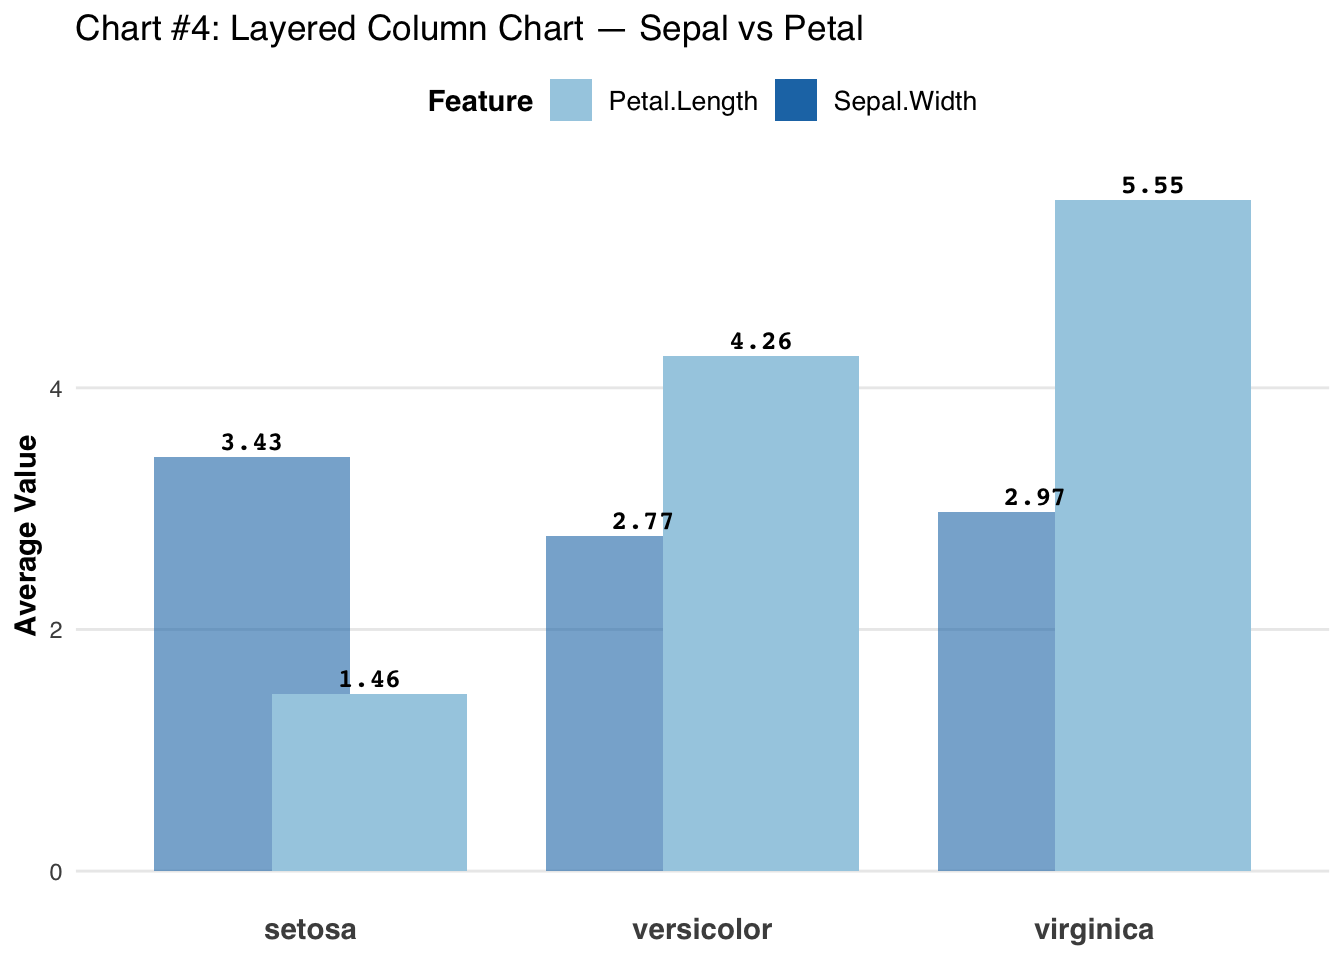
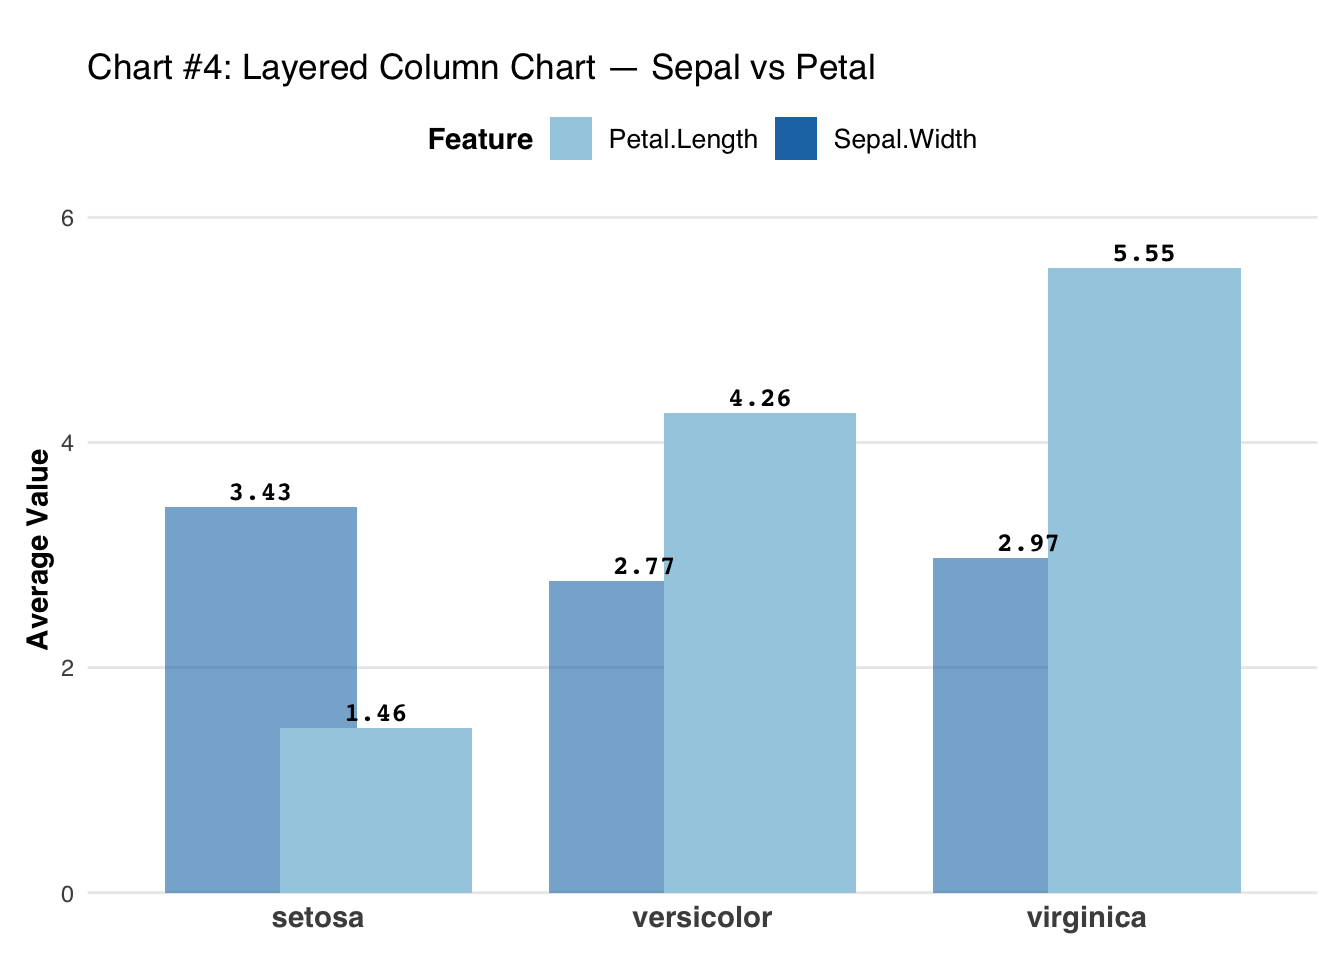
assignment 3 hackathon

diff --git a/docs/hackathon.html b/docs/hackathon.html
@@ -268,19 +268,19 @@ pre > code.sourceCode > span > a:first-child::before { text-decoration: underlin
 <span id="cb2-3"><a href="#cb2-3" aria-hidden="true" tabindex="-1"></a></span>
 <span id="cb2-4"><a href="#cb2-4" aria-hidden="true" tabindex="-1"></a><span class="fu">ggplot</span>(d, <span class="fu">aes</span>(<span class="at">x =</span> Species, <span class="at">y =</span> Value, <span class="at">fill =</span> Feature)) <span class="sc">+</span></span>
 <span id="cb2-5"><a href="#cb2-5" aria-hidden="true" tabindex="-1"></a>  <span class="fu">geom_col</span>(<span class="at">width =</span> <span class="fl">0.6</span>) <span class="sc">+</span></span>
-<span id="cb2-6"><a href="#cb2-6" aria-hidden="true" tabindex="-1"></a>  <span class="fu">geom_text</span>(<span class="fu">aes</span>(<span class="at">label =</span> <span class="fu">round</span>(Value, <span class="dv">2</span>)), <span class="at">vjust =</span> <span class="sc">-</span><span class="fl">1.2</span>, <span class="at">size =</span> <span class="fl">3.5</span>, <span class="at">family =</span> <span class="st">"mono"</span>, <span class="at">fontface =</span> <span class="st">"bold"</span>, <span class="at">color =</span> <span class="st">"black"</span>) <span class="sc">+</span></span>
-<span id="cb2-7"><a href="#cb2-7" aria-hidden="true" tabindex="-1"></a>  <span class="fu">facet_grid</span>(Feature <span class="sc">~</span> .) <span class="sc">+</span></span>
+<span id="cb2-6"><a href="#cb2-6" aria-hidden="true" tabindex="-1"></a>  <span class="fu">geom_text</span>(<span class="fu">aes</span>(<span class="at">label =</span> <span class="fu">round</span>(Value, <span class="dv">2</span>)), <span class="at">hjust =</span> <span class="sc">-</span><span class="fl">0.05</span>, <span class="at">size =</span> <span class="fl">2.8</span>, <span class="at">family =</span> <span class="st">"mono"</span>, <span class="at">fontface =</span> <span class="st">"bold"</span>, <span class="at">color =</span> <span class="st">"black"</span>) <span class="sc">+</span></span>
+<span id="cb2-7"><a href="#cb2-7" aria-hidden="true" tabindex="-1"></a>  <span class="fu">facet_grid</span>(Feature <span class="sc">~</span> ., <span class="at">scales =</span> <span class="st">"free"</span>) <span class="sc">+</span></span>
 <span id="cb2-8"><a href="#cb2-8" aria-hidden="true" tabindex="-1"></a>  <span class="fu">scale_fill_manual</span>(<span class="at">values =</span> <span class="fu">c</span>(<span class="at">Sepal.Length =</span> <span class="st">"#1f77b4"</span>, <span class="at">Sepal.Width =</span> <span class="st">"#4fa9dc"</span>, <span class="at">Petal.Length =</span> <span class="st">"#a6cee3"</span>, <span class="at">Petal.Width =</span> <span class="st">"#c6dbef"</span>)) <span class="sc">+</span></span>
 <span id="cb2-9"><a href="#cb2-9" aria-hidden="true" tabindex="-1"></a>  <span class="fu">labs</span>(<span class="at">title =</span> <span class="st">"Chart #2: Matrix Table with Embedded Bar Charts — Iris Feature Averages"</span>, <span class="at">x =</span> <span class="st">"Species"</span>, <span class="at">y =</span> <span class="st">"Average Value"</span>, <span class="at">fill =</span> <span class="st">"Feature"</span>) <span class="sc">+</span></span>
 <span id="cb2-10"><a href="#cb2-10" aria-hidden="true" tabindex="-1"></a>  <span class="fu">coord_cartesian</span>(<span class="at">clip =</span> <span class="st">"off"</span>) <span class="sc">+</span></span>
 <span id="cb2-11"><a href="#cb2-11" aria-hidden="true" tabindex="-1"></a>  <span class="fu">theme_minimal</span>(<span class="at">base_family =</span> <span class="st">"sans"</span>) <span class="sc">+</span></span>
-<span id="cb2-12"><a href="#cb2-12" aria-hidden="true" tabindex="-1"></a>  <span class="fu">theme</span>(<span class="at">strip.text =</span> <span class="fu">element_text</span>(<span class="at">face =</span> <span class="st">"bold"</span>, <span class="at">size =</span> <span class="dv">11</span>),</span>
-<span id="cb2-13"><a href="#cb2-13" aria-hidden="true" tabindex="-1"></a>        <span class="at">axis.text.x =</span> <span class="fu">element_text</span>(<span class="at">face =</span> <span class="st">"bold"</span>, <span class="at">size =</span> <span class="dv">10</span>),</span>
+<span id="cb2-12"><a href="#cb2-12" aria-hidden="true" tabindex="-1"></a>  <span class="fu">theme</span>(<span class="at">strip.text =</span> <span class="fu">element_text</span>(<span class="at">face =</span> <span class="st">"bold"</span>, <span class="at">size =</span> <span class="dv">5</span>),</span>
+<span id="cb2-13"><a href="#cb2-13" aria-hidden="true" tabindex="-1"></a>        <span class="at">axis.text.x =</span> <span class="fu">element_text</span>(<span class="at">face =</span> <span class="st">"bold"</span>, <span class="at">size =</span> <span class="dv">5</span>),</span>
 <span id="cb2-14"><a href="#cb2-14" aria-hidden="true" tabindex="-1"></a>        <span class="at">axis.title.x =</span> <span class="fu">element_text</span>(<span class="at">face =</span> <span class="st">"bold"</span>),</span>
 <span id="cb2-15"><a href="#cb2-15" aria-hidden="true" tabindex="-1"></a>        <span class="at">axis.title.y =</span> <span class="fu">element_text</span>(<span class="at">face =</span> <span class="st">"bold"</span>),</span>
 <span id="cb2-16"><a href="#cb2-16" aria-hidden="true" tabindex="-1"></a>        <span class="at">panel.grid.major =</span> <span class="fu">element_line</span>(<span class="at">color =</span> <span class="st">"gray85"</span>),</span>
 <span id="cb2-17"><a href="#cb2-17" aria-hidden="true" tabindex="-1"></a>        <span class="at">panel.spacing.y =</span> <span class="fu">unit</span>(<span class="fl">1.2</span>, <span class="st">"lines"</span>),</span>
-<span id="cb2-18"><a href="#cb2-18" aria-hidden="true" tabindex="-1"></a>        <span class="at">plot.margin =</span> <span class="fu">margin</span>(<span class="dv">10</span>, <span class="dv">10</span>, <span class="dv">30</span>, <span class="dv">10</span>),</span>
+<span id="cb2-18"><a href="#cb2-18" aria-hidden="true" tabindex="-1"></a>        <span class="at">plot.margin =</span> <span class="fu">margin</span>(<span class="dv">10</span>, <span class="dv">40</span>, <span class="dv">10</span>, <span class="dv">10</span>),</span>
 <span id="cb2-19"><a href="#cb2-19" aria-hidden="true" tabindex="-1"></a>        <span class="at">legend.position =</span> <span class="st">"top"</span>,</span>
 <span id="cb2-20"><a href="#cb2-20" aria-hidden="true" tabindex="-1"></a>        <span class="at">legend.title =</span> <span class="fu">element_text</span>(<span class="at">face =</span> <span class="st">"bold"</span>),</span>
 <span id="cb2-21"><a href="#cb2-21" aria-hidden="true" tabindex="-1"></a>        <span class="at">legend.text =</span> <span class="fu">element_text</span>(<span class="at">size =</span> <span class="dv">10</span>))</span></code></pre></div><button title="Copy to Clipboard" class="code-copy-button"><i class="bi"></i></button></div>
@@ -304,13 +304,14 @@ pre > code.sourceCode > span > a:first-child::before { text-decoration: underlin
 <span id="cb3-9"><a href="#cb3-9" aria-hidden="true" tabindex="-1"></a>            <span class="at">hjust =</span> <span class="sc">-</span><span class="fl">0.2</span>, <span class="at">size =</span> <span class="fl">3.5</span>, <span class="at">family =</span> <span class="st">"mono"</span>, <span class="at">fontface =</span> <span class="st">"bold"</span>, <span class="at">color =</span> <span class="st">"black"</span>) <span class="sc">+</span></span>
 <span id="cb3-10"><a href="#cb3-10" aria-hidden="true" tabindex="-1"></a>  <span class="fu">scale_fill_manual</span>(<span class="at">values =</span> <span class="fu">c</span>(<span class="at">Sepal.Width =</span> <span class="st">"#a6cee3"</span>, <span class="at">Petal.Length =</span> <span class="st">"#1f77b4"</span>)) <span class="sc">+</span></span>
 <span id="cb3-11"><a href="#cb3-11" aria-hidden="true" tabindex="-1"></a>  <span class="fu">labs</span>(<span class="at">title =</span> <span class="st">"Chart #3: Horizontal Grouped Bar Chart"</span>, <span class="at">x =</span> <span class="st">"Average Value"</span>, <span class="at">y =</span> <span class="cn">NULL</span>) <span class="sc">+</span></span>
-<span id="cb3-12"><a href="#cb3-12" aria-hidden="true" tabindex="-1"></a>  <span class="fu">theme_minimal</span>(<span class="at">base_family =</span> <span class="st">"sans"</span>) <span class="sc">+</span></span>
-<span id="cb3-13"><a href="#cb3-13" aria-hidden="true" tabindex="-1"></a>  <span class="fu">theme</span>(<span class="at">axis.text.y =</span> <span class="fu">element_text</span>(<span class="at">face =</span> <span class="st">"bold"</span>, <span class="at">size =</span> <span class="dv">11</span>),</span>
-<span id="cb3-14"><a href="#cb3-14" aria-hidden="true" tabindex="-1"></a>        <span class="at">axis.title.x =</span> <span class="fu">element_text</span>(<span class="at">face =</span> <span class="st">"bold"</span>),</span>
-<span id="cb3-15"><a href="#cb3-15" aria-hidden="true" tabindex="-1"></a>        <span class="at">legend.title =</span> <span class="fu">element_blank</span>(),</span>
-<span id="cb3-16"><a href="#cb3-16" aria-hidden="true" tabindex="-1"></a>        <span class="at">legend.position =</span> <span class="st">"top"</span>,</span>
-<span id="cb3-17"><a href="#cb3-17" aria-hidden="true" tabindex="-1"></a>        <span class="at">plot.margin =</span> <span class="fu">margin</span>(<span class="dv">10</span>, <span class="dv">30</span>, <span class="dv">10</span>, <span class="dv">10</span>),</span>
-<span id="cb3-18"><a href="#cb3-18" aria-hidden="true" tabindex="-1"></a>        <span class="at">panel.grid.major.y =</span> <span class="fu">element_blank</span>())</span></code></pre></div><button title="Copy to Clipboard" class="code-copy-button"><i class="bi"></i></button></div>
+<span id="cb3-12"><a href="#cb3-12" aria-hidden="true" tabindex="-1"></a>  <span class="fu">coord_cartesian</span>(<span class="at">clip =</span> <span class="st">"off"</span>) <span class="sc">+</span></span>
+<span id="cb3-13"><a href="#cb3-13" aria-hidden="true" tabindex="-1"></a>  <span class="fu">theme_minimal</span>(<span class="at">base_family =</span> <span class="st">"sans"</span>) <span class="sc">+</span></span>
+<span id="cb3-14"><a href="#cb3-14" aria-hidden="true" tabindex="-1"></a>  <span class="fu">theme</span>(<span class="at">axis.text.y =</span> <span class="fu">element_text</span>(<span class="at">face =</span> <span class="st">"bold"</span>, <span class="at">size =</span> <span class="dv">11</span>),</span>
+<span id="cb3-15"><a href="#cb3-15" aria-hidden="true" tabindex="-1"></a>        <span class="at">axis.title.x =</span> <span class="fu">element_text</span>(<span class="at">face =</span> <span class="st">"bold"</span>),</span>
+<span id="cb3-16"><a href="#cb3-16" aria-hidden="true" tabindex="-1"></a>        <span class="at">legend.title =</span> <span class="fu">element_blank</span>(),</span>
+<span id="cb3-17"><a href="#cb3-17" aria-hidden="true" tabindex="-1"></a>        <span class="at">legend.position =</span> <span class="st">"top"</span>,</span>
+<span id="cb3-18"><a href="#cb3-18" aria-hidden="true" tabindex="-1"></a>        <span class="at">plot.margin =</span> <span class="fu">margin</span>(<span class="dv">10</span>, <span class="dv">30</span>, <span class="dv">10</span>, <span class="dv">10</span>),</span>
+<span id="cb3-19"><a href="#cb3-19" aria-hidden="true" tabindex="-1"></a>        <span class="at">panel.grid.major.y =</span> <span class="fu">element_blank</span>())</span></code></pre></div><button title="Copy to Clipboard" class="code-copy-button"><i class="bi"></i></button></div>
 <div class="cell-output-display">
 <div>
 <figure class="figure">
@@ -334,15 +335,18 @@ pre > code.sourceCode > span > a:first-child::before { text-decoration: underlin
 <span id="cb4-12"><a href="#cb4-12" aria-hidden="true" tabindex="-1"></a>            <span class="at">position =</span> <span class="fu">position_nudge</span>(<span class="at">x =</span> <span class="fu">ifelse</span>(d<span class="sc">$</span>Layer <span class="sc">==</span> <span class="st">"Sepal.Width"</span>, <span class="sc">-</span><span class="fl">0.15</span>, <span class="fl">0.15</span>)),</span>
 <span id="cb4-13"><a href="#cb4-13" aria-hidden="true" tabindex="-1"></a>            <span class="at">vjust =</span> <span class="sc">-</span><span class="fl">0.5</span>, <span class="at">size =</span> <span class="fl">3.5</span>, <span class="at">family =</span> <span class="st">"mono"</span>, <span class="at">fontface =</span> <span class="st">"bold"</span>, <span class="at">color =</span> <span class="st">"black"</span>) <span class="sc">+</span></span>
 <span id="cb4-14"><a href="#cb4-14" aria-hidden="true" tabindex="-1"></a>  <span class="fu">scale_fill_manual</span>(<span class="at">values =</span> <span class="fu">c</span>(<span class="at">Sepal.Width =</span> <span class="st">"#1f77b4"</span>, <span class="at">Petal.Length =</span> <span class="st">"#a6cee3"</span>)) <span class="sc">+</span></span>
-<span id="cb4-15"><a href="#cb4-15" aria-hidden="true" tabindex="-1"></a>  <span class="fu">labs</span>(<span class="at">title =</span> <span class="st">"Chart #4: Layered Column Chart — Sepal vs Petal"</span>, <span class="at">x =</span> <span class="cn">NULL</span>, <span class="at">y =</span> <span class="st">"Average Value"</span>, <span class="at">fill =</span> <span class="st">"Feature"</span>) <span class="sc">+</span></span>
-<span id="cb4-16"><a href="#cb4-16" aria-hidden="true" tabindex="-1"></a>  <span class="fu">theme_minimal</span>(<span class="at">base_family =</span> <span class="st">"sans"</span>) <span class="sc">+</span></span>
-<span id="cb4-17"><a href="#cb4-17" aria-hidden="true" tabindex="-1"></a>  <span class="fu">theme</span>(<span class="at">axis.text.x =</span> <span class="fu">element_text</span>(<span class="at">face =</span> <span class="st">"bold"</span>, <span class="at">size =</span> <span class="dv">11</span>),</span>
-<span id="cb4-18"><a href="#cb4-18" aria-hidden="true" tabindex="-1"></a>        <span class="at">axis.title.y =</span> <span class="fu">element_text</span>(<span class="at">face =</span> <span class="st">"bold"</span>),</span>
-<span id="cb4-19"><a href="#cb4-19" aria-hidden="true" tabindex="-1"></a>        <span class="at">panel.grid.major.x =</span> <span class="fu">element_blank</span>(),</span>
-<span id="cb4-20"><a href="#cb4-20" aria-hidden="true" tabindex="-1"></a>        <span class="at">panel.grid.minor =</span> <span class="fu">element_blank</span>(),</span>
-<span id="cb4-21"><a href="#cb4-21" aria-hidden="true" tabindex="-1"></a>        <span class="at">legend.position =</span> <span class="st">"top"</span>,</span>
-<span id="cb4-22"><a href="#cb4-22" aria-hidden="true" tabindex="-1"></a>        <span class="at">legend.title =</span> <span class="fu">element_text</span>(<span class="at">face =</span> <span class="st">"bold"</span>),</span>
-<span id="cb4-23"><a href="#cb4-23" aria-hidden="true" tabindex="-1"></a>        <span class="at">legend.text =</span> <span class="fu">element_text</span>(<span class="at">size =</span> <span class="dv">10</span>))</span></code></pre></div><button title="Copy to Clipboard" class="code-copy-button"><i class="bi"></i></button></div>
+<span id="cb4-15"><a href="#cb4-15" aria-hidden="true" tabindex="-1"></a>  <span class="fu">scale_y_continuous</span>(<span class="at">expand =</span> <span class="fu">expansion</span>(<span class="at">mult =</span> <span class="fu">c</span>(<span class="dv">0</span>, <span class="fl">0.1</span>))) <span class="sc">+</span></span>
+<span id="cb4-16"><a href="#cb4-16" aria-hidden="true" tabindex="-1"></a>  <span class="fu">coord_cartesian</span>(<span class="at">clip =</span> <span class="st">"off"</span>) <span class="sc">+</span></span>
+<span id="cb4-17"><a href="#cb4-17" aria-hidden="true" tabindex="-1"></a>  <span class="fu">labs</span>(<span class="at">title =</span> <span class="st">"Chart #4: Layered Column Chart — Sepal vs Petal"</span>, <span class="at">x =</span> <span class="cn">NULL</span>, <span class="at">y =</span> <span class="st">"Average Value"</span>, <span class="at">fill =</span> <span class="st">"Feature"</span>) <span class="sc">+</span></span>
+<span id="cb4-18"><a href="#cb4-18" aria-hidden="true" tabindex="-1"></a>  <span class="fu">theme_minimal</span>(<span class="at">base_family =</span> <span class="st">"sans"</span>) <span class="sc">+</span></span>
+<span id="cb4-19"><a href="#cb4-19" aria-hidden="true" tabindex="-1"></a>  <span class="fu">theme</span>(<span class="at">axis.text.x =</span> <span class="fu">element_text</span>(<span class="at">face =</span> <span class="st">"bold"</span>, <span class="at">size =</span> <span class="dv">11</span>),</span>
+<span id="cb4-20"><a href="#cb4-20" aria-hidden="true" tabindex="-1"></a>        <span class="at">axis.title.y =</span> <span class="fu">element_text</span>(<span class="at">face =</span> <span class="st">"bold"</span>),</span>
+<span id="cb4-21"><a href="#cb4-21" aria-hidden="true" tabindex="-1"></a>        <span class="at">panel.grid.major.x =</span> <span class="fu">element_blank</span>(),</span>
+<span id="cb4-22"><a href="#cb4-22" aria-hidden="true" tabindex="-1"></a>        <span class="at">panel.grid.minor =</span> <span class="fu">element_blank</span>(),</span>
+<span id="cb4-23"><a href="#cb4-23" aria-hidden="true" tabindex="-1"></a>        <span class="at">legend.position =</span> <span class="st">"top"</span>,</span>
+<span id="cb4-24"><a href="#cb4-24" aria-hidden="true" tabindex="-1"></a>        <span class="at">legend.title =</span> <span class="fu">element_text</span>(<span class="at">face =</span> <span class="st">"bold"</span>),</span>
+<span id="cb4-25"><a href="#cb4-25" aria-hidden="true" tabindex="-1"></a>        <span class="at">legend.text =</span> <span class="fu">element_text</span>(<span class="at">size =</span> <span class="dv">10</span>),</span>
+<span id="cb4-26"><a href="#cb4-26" aria-hidden="true" tabindex="-1"></a>        <span class="at">plot.margin =</span> <span class="fu">margin</span>(<span class="at">t =</span> <span class="dv">20</span>, <span class="at">r =</span> <span class="dv">10</span>, <span class="at">b =</span> <span class="dv">10</span>, <span class="at">l =</span> <span class="dv">10</span>))</span></code></pre></div><button title="Copy to Clipboard" class="code-copy-button"><i class="bi"></i></button></div>
 <div class="cell-output-display">
 <div>
 <figure class="figure">
@@ -353,7 +357,7 @@ pre > code.sourceCode > span > a:first-child::before { text-decoration: underlin
 </div>
 <p>AI Disclaimer</p>
 <p>This project was developed with support from Microsoft Copilot, an AI companion that assisted in refining code, customizing chart aesthetics, and troubleshooting layout and labeling issues. Copilot was used to:</p>
-<p>• Generate and optimize R code for data visualization using ggplot2 • Troubleshoot axis labeling, legend placement, and bar layering • Refactor code for compactness and reproducibility • Align chart titles and styles with assignment specifications All visualizations were reviewed and iteratively refined by the author to ensure clarity, accuracy, and alignment with project goals.</p>
+<p>• Optimize R code for data visualization using ggplot2 • Troubleshoot axis labeling, legend placement, and bar layering • Refactor code for compactness and reproducibility • Align chart titles and styles with assignment specifications All visualizations were reviewed and iteratively refined by the author to ensure clarity, accuracy, and alignment with project goals.</p>
 
 
 
